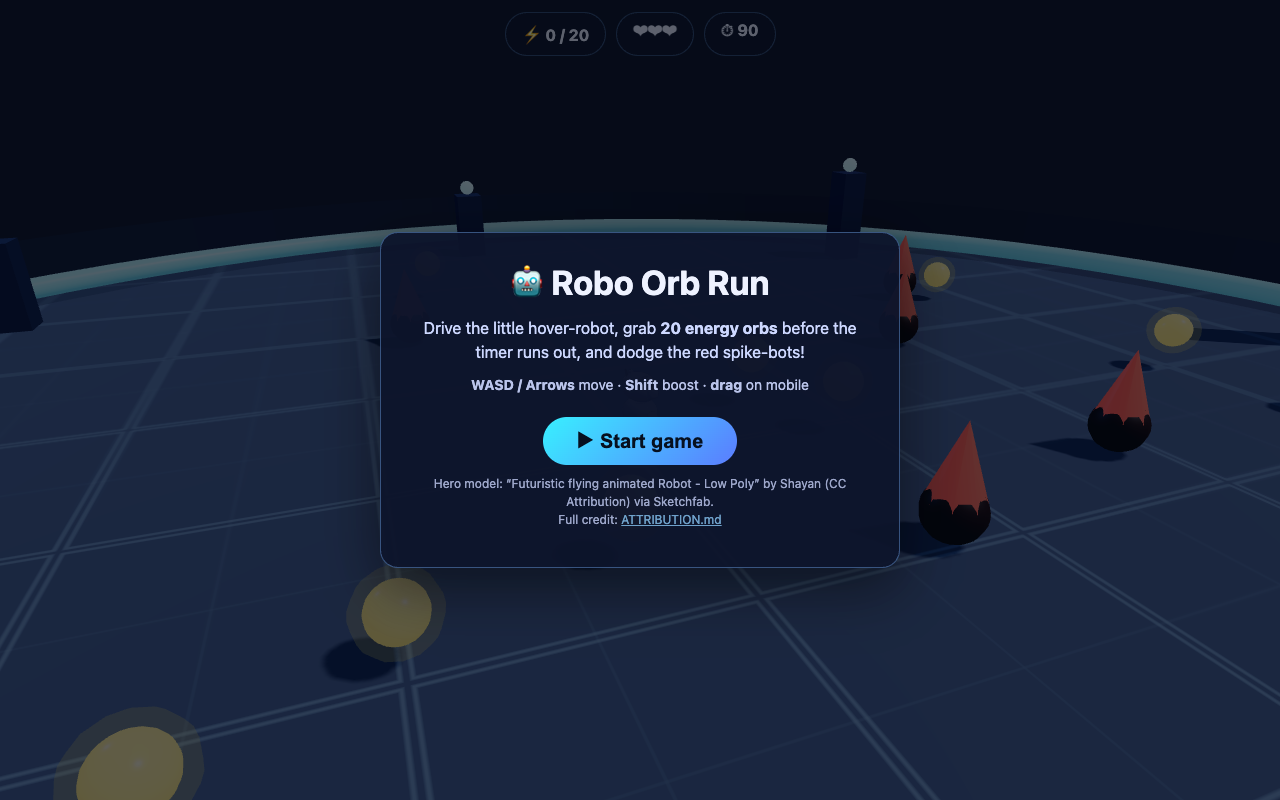
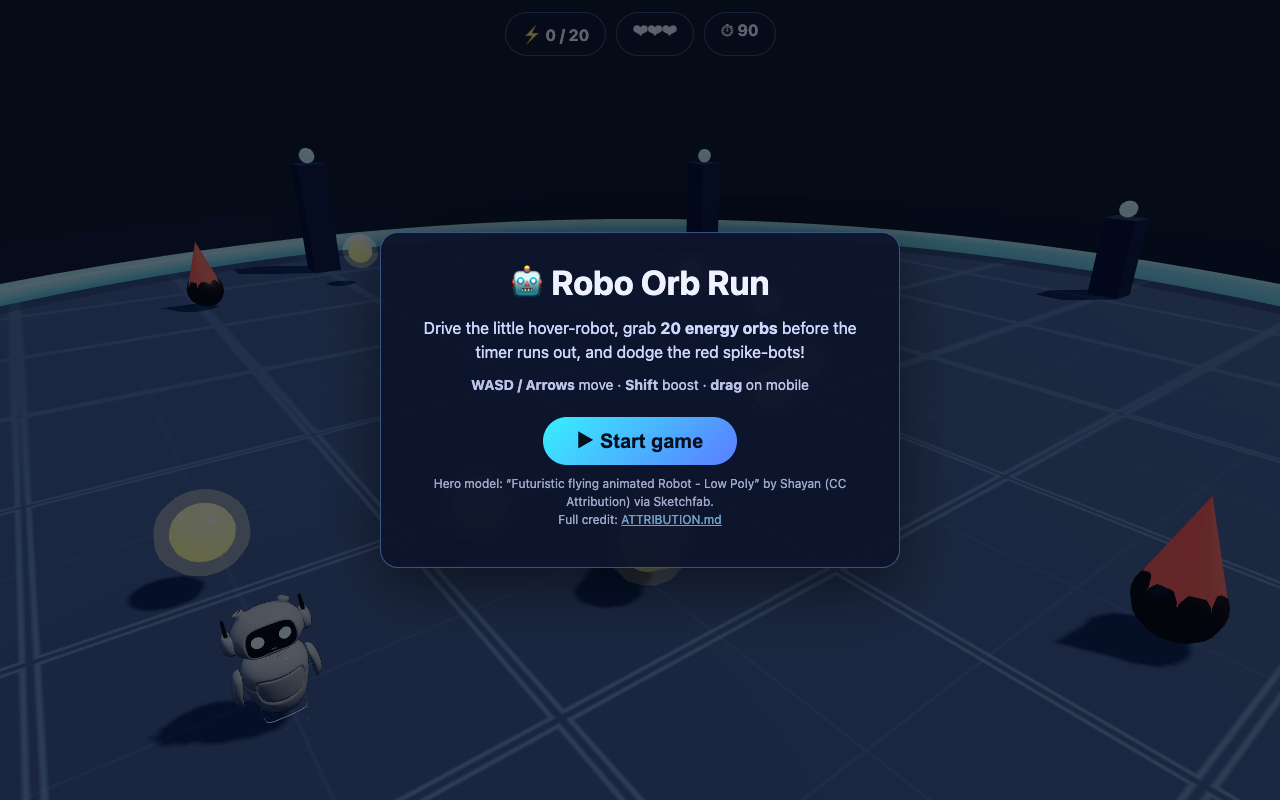
Polish Robo Orb Run: additive orb glow, hero faces camera on title, presenter parking

diff --git a/game.js b/game.js
@@ -158,8 +158,8 @@ for (let i = 0; i < 12; i++) {
     color: 0xffd34d, emissive: 0xffaa00, emissiveIntensity: 2.2, roughness: 0.25
   }));
   m.castShadow = true; spawnOrb(m); scene.add(m); orbs.push(m);
-  const halo = new THREE.Mesh(new THREE.SphereGeometry(0.6, 12, 12),
-    new THREE.MeshBasicMaterial({ color: 0xffcc33, transparent: true, opacity: 0.25 }));
+  const halo = new THREE.Mesh(new THREE.SphereGeometry(0.62, 12, 12),
+    new THREE.MeshBasicMaterial({ color: 0xffb833, transparent: true, opacity: 0.35, blending: THREE.AdditiveBlending, depthWrite: false }));
   m.add(halo);
 }
 
@@ -239,7 +239,7 @@ function say(msg) {
 }
 playBtn.onclick = () => { AC = AC || new (window.AudioContext || window.webkitAudioContext)(); startGame(); };
 function startGame() {
-  S.running = true; S.score = 0; S.lives = 3; S.time = TIME_LIMIT; S.invuln = 0;
+  S.running = true; S.presented = true; S.score = 0; S.lives = 3; S.time = TIME_LIMIT; S.invuln = 0;
   player.position.set(0, 0, 0);
   orbs.forEach(spawnOrb);
   overlay.classList.add('hidden');
@@ -293,7 +293,18 @@ function update(dt, t) {
     // idle camera orbit
     camera.position.set(Math.cos(t * 0.25) * 14, 7, Math.sin(t * 0.25) * 14);
     camera.lookAt(0, 1.2, 0);
-    player.rotation.y += dt * 0.6;
+    if (!S.presented) {
+      // before the first run, park the hero beside the title card, facing the camera
+      const toC = new THREE.Vector3(-camera.position.x, 0, -camera.position.z).normalize();
+      const right = new THREE.Vector3(-toC.z, 0, toC.x); // screen-right for a camera looking along toC
+      player.position.copy(camera.position).addScaledVector(toC, 7).addScaledVector(right, -4.2);
+      player.position.y = 0;
+    }
+    const faceYaw = Math.atan2(camera.position.x - player.position.x, camera.position.z - player.position.z);
+    let d = faceYaw - S.yaw;
+    while (d > Math.PI) d -= Math.PI * 2; while (d < -Math.PI) d += Math.PI * 2;
+    S.yaw += d * Math.min(1, dt * 5);
+    player.rotation.y = S.yaw;
     player.position.y = Math.sin(t * 2) * 0.12;
     return;
   }
